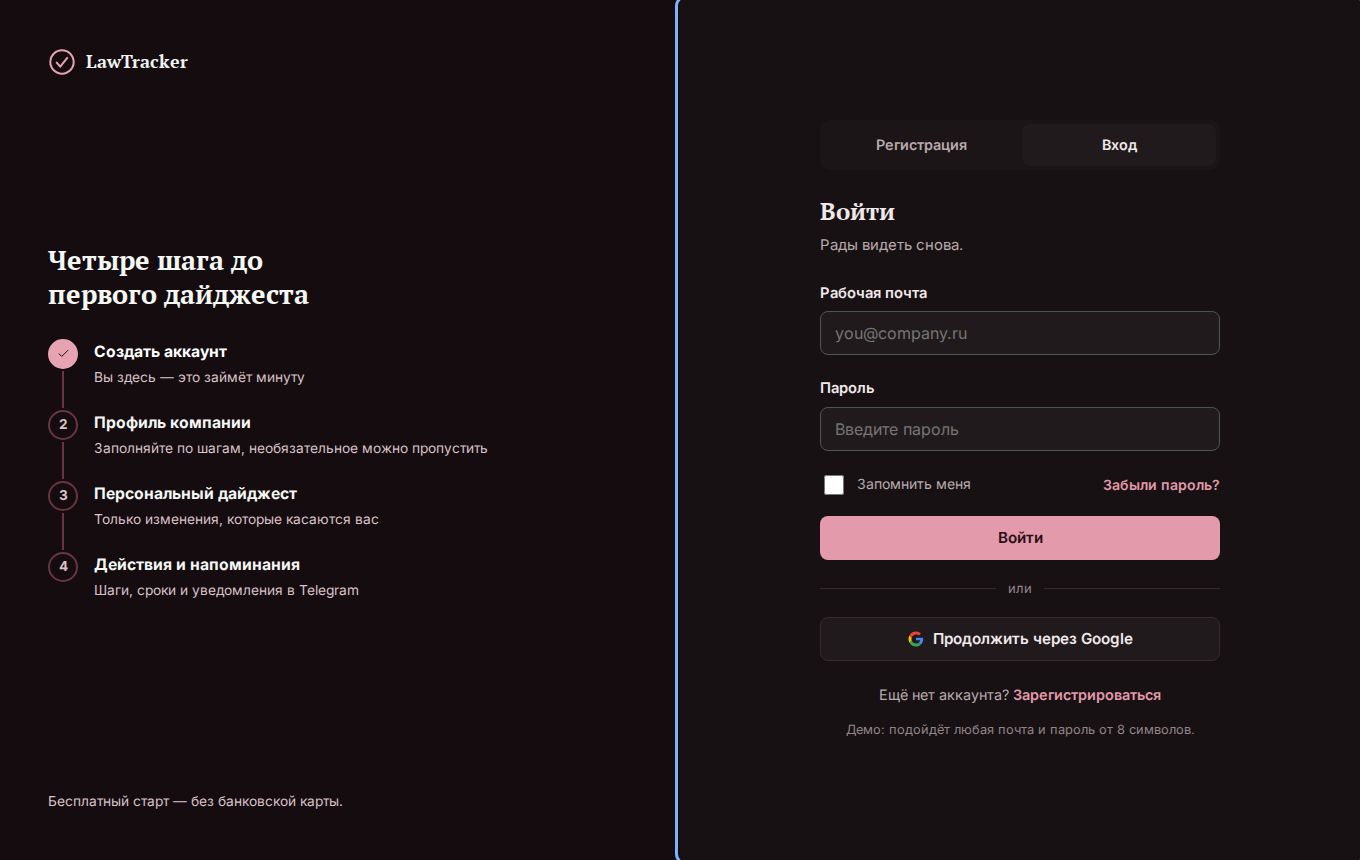
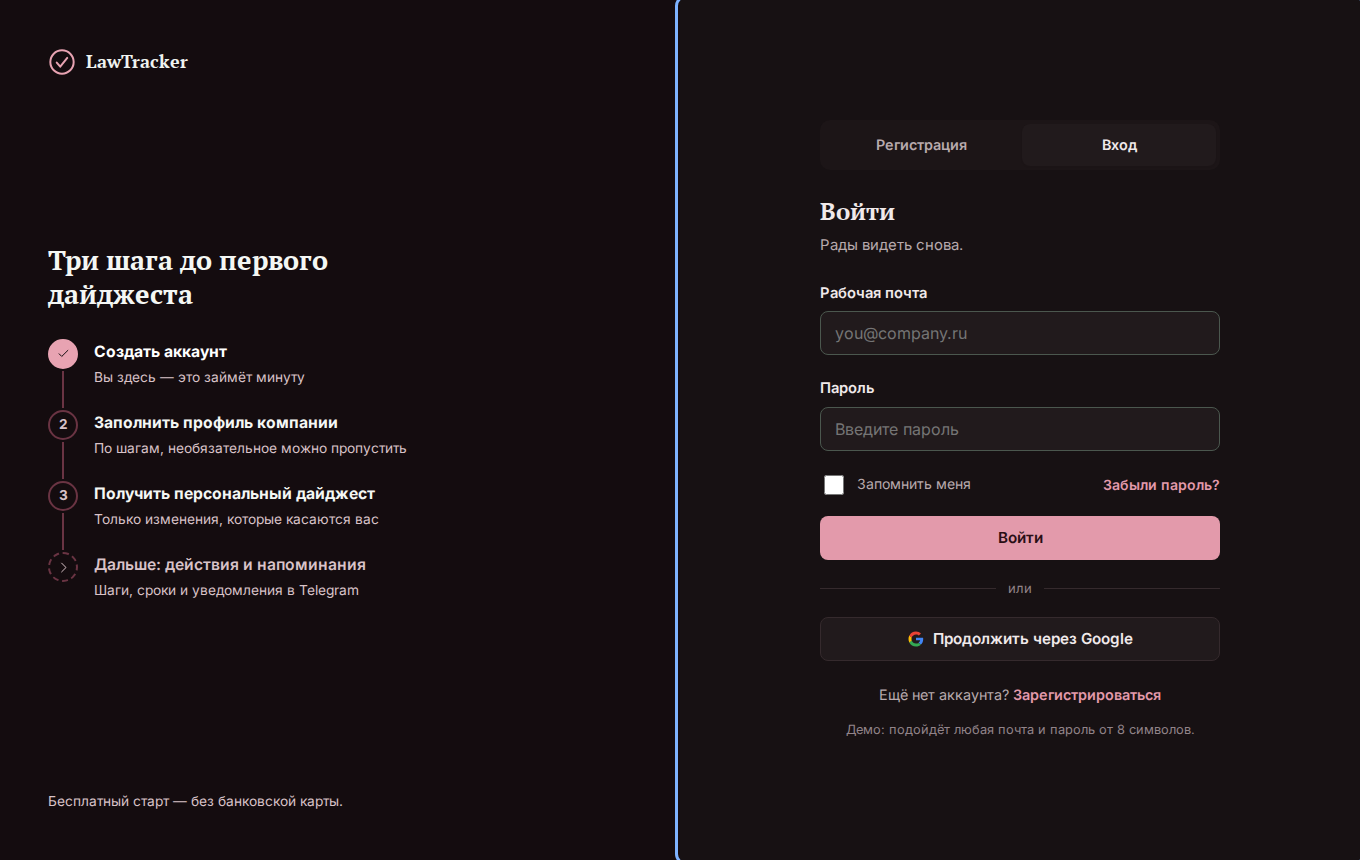
Fix steps panel logic: three steps to first digest, fourth item is a continuation
Claude-Session: https://claude.ai/code/session_01ADSquzsspwAL5eKo1c74of

Changed region(s): [[0.0618, 0.4837, 0.3706, 0.6047], [0.0309, 0.2721, 0.2471, 0.3628], [0.0309, 0.6349, 0.2779, 0.6651]]

diff --git a/auth-panels.html b/auth-panels.html
@@ -4,4 +4,4 @@ h1{font:700 2.1rem/1.25 "PT Serif",Georgia,serif;margin:0 0 10px}h2{font:700 1.5
 section{padding:40px 0;border-top:1px solid #ddd}.g{display:grid;grid-template-columns:1fr 240px;gap:20px;margin-top:18px;align-items:start}@media(max-width:900px){.g{grid-template-columns:1fr}}
 figure{margin:0;background:#fff;border:1px solid #ddd;border-radius:12px;overflow:hidden}figure img{width:100%;display:block}figcaption{padding:8px 12px;font-size:.84rem;color:#555}
 .t{display:grid;grid-template-columns:repeat(3,1fr);gap:8px 26px;max-width:1040px}@media(max-width:800px){.t{grid-template-columns:1fr}}.t p{margin:4px 0;font-size:.95rem}
-.badge{display:inline-block;background:#22574A;color:#fff;border-radius:999px;padding:3px 12px;font-size:.78rem;font-weight:600;margin-bottom:8px}.tip{background:#fff;border:1px solid #ddd;border-radius:14px;padding:20px 24px}.tip li{margin:6px 0}</style></head><body><div class="w"><header><h1>LawTracker: левая часть регистрации</h1><p class="lead">Шесть вариантов тёмной панели рядом с формой. Цвета «Лес», шрифт «Классика»; панель автоматически подхватывает выбранную гамму и тёмную тему. На телефоне панель сжимается до шапки с одной фразой.</p></header><section id="current"><h2>1. Как сейчас</h2><div class="t"><p><b>Идея:</b> Слоган, три пункта пользы и пример уведомления.</p><p><b>Плюсы:</b> Универсальный, знакомый по прототипу. Пример показывает продукт.</p><p><b>Минусы:</b> Много текста; пример мелкий, слоган повторяет главную.</p></div><div class="g"><figure><img src="mockups/auth/current-desktop.png" loading="lazy" alt=""><figcaption>Десктоп</figcaption></figure><figure><img src="mockups/auth/current-mobile.png" loading="lazy" alt=""><figcaption>Мобильная версия</figcaption></figure></div></section><section id="questions"><h2>2. Три вопроса</h2><div class="t"><p><b>Идея:</b> Продолжает идею главной страницы: что изменилось, касается ли нас, что сделать.</p><p><b>Плюсы:</b> Единый посыл с главной, коротко и понятно с первого взгляда.</p><p><b>Минусы:</b> Нет визуального образа продукта.</p></div><div class="g"><figure><img src="mockups/auth/questions-desktop.png" loading="lazy" alt=""><figcaption>Десктоп</figcaption></figure><figure><img src="mockups/auth/questions-mobile.png" loading="lazy" alt=""><figcaption>Мобильная версия</figcaption></figure></div></section><section id="steps"><span class=badge>Рекомендуем</span><br><h2>3. Путь за 4 шага</h2><div class="t"><p><b>Идея:</b> Вертикальный степпер: регистрация → профиль → дайджест → действия. Текущий шаг отмечен.</p><p><b>Плюсы:</b> Снимает страх длинной анкеты (принцип «постепенного вовлечения» из ТЗ), задаёт ожидания.</p><p><b>Минусы:</b> Меньше «продукта» и больше процесса.</p></div><div class="g"><figure><img src="mockups/auth/steps-desktop.png" loading="lazy" alt=""><figcaption>Десктоп</figcaption></figure><figure><img src="mockups/auth/steps-mobile.png" loading="lazy" alt=""><figcaption>Мобильная версия</figcaption></figure></div></section><section id="sample"><h2>4. Пример дайджеста</h2><div class="t"><p><b>Идея:</b> Крупная светлая карточка изменения с сроком, причиной показа и ответственным.</p><p><b>Плюсы:</b> Самое наглядное доказательство ценности продукта прямо в момент регистрации.</p><p><b>Минусы:</b> Карточка вымышленная; нужно держать метку «Пример».</p></div><div class="g"><figure><img src="mockups/auth/sample-desktop.png" loading="lazy" alt=""><figcaption>Десктоп</figcaption></figure><figure><img src="mockups/auth/sample-mobile.png" loading="lazy" alt=""><figcaption>Мобильная версия</figcaption></figure></div></section><section id="telegram"><h2>5. Telegram и кабинет</h2><div class="t"><p><b>Идея:</b> Телефон с сообщениями бота: показывает второй канал доставки.</p><p><b>Плюсы:</b> Подчёркивает удобство и лёгкость; выделяется среди конкурентов.</p><p><b>Минусы:</b> Акцент на канале, а не на анализе; кабинет остаётся основным.</p></div><div class="g"><figure><img src="mockups/auth/telegram-desktop.png" loading="lazy" alt=""><figcaption>Десктоп</figcaption></figure><figure><img src="mockups/auth/telegram-mobile.png" loading="lazy" alt=""><figcaption>Мобильная версия</figcaption></figure></div></section><section id="trust"><h2>6. Доверие</h2><div class="t"><p><b>Идея:</b> Цитата из презентации и три принципа: источник, уровень уверенности, контроль данных.</p><p><b>Плюсы:</b> Работает на юристов и комплаенс: снижает тревогу перед вводом данных о компании.</p><p><b>Минусы:</b> Самый «текстовый» и спокойный вариант, меньше эмоции.</p></div><div class="g"><figure><img src="mockups/auth/trust-desktop.png" loading="lazy" alt=""><figcaption>Десктоп</figcaption></figure><figure><img src="mockups/auth/trust-mobile.png" loading="lazy" alt=""><figcaption>Мобильная версия</figcaption></figure></div></section><section><h2>Как выбрать и как включить</h2><div class="tip"><ul><li><b>Рекомендуем №3</b> — «Путь за 4 шага»: лучше всего снимает страх длинной регистрации и хорошо сочетается с постепенным заполнением профиля.</li><li>Для единого посыла с главной — №2. Для наглядности продукта — №4.</li><li>Посмотреть на работающем сайте: добавьте к адресу <code>?panel=steps</code>, например <code>index.html#/register?panel=trust</code>. Значения: current, questions, steps, sample, telegram, trust.</li><li>Выбрав вариант, оставим только его.</li></ul></div></section></div></body></html>
+.badge{display:inline-block;background:#22574A;color:#fff;border-radius:999px;padding:3px 12px;font-size:.78rem;font-weight:600;margin-bottom:8px}.tip{background:#fff;border:1px solid #ddd;border-radius:14px;padding:20px 24px}.tip li{margin:6px 0}</style></head><body><div class="w"><header><h1>LawTracker: левая часть регистрации</h1><p class="lead">Шесть вариантов тёмной панели рядом с формой. Цвета «Лес», шрифт «Классика»; панель автоматически подхватывает выбранную гамму и тёмную тему. На телефоне панель сжимается до шапки с одной фразой.</p></header><section id="current"><h2>1. Как сейчас</h2><div class="t"><p><b>Идея:</b> Слоган, три пункта пользы и пример уведомления.</p><p><b>Плюсы:</b> Универсальный, знакомый по прототипу. Пример показывает продукт.</p><p><b>Минусы:</b> Много текста; пример мелкий, слоган повторяет главную.</p></div><div class="g"><figure><img src="mockups/auth/current-desktop.png" loading="lazy" alt=""><figcaption>Десктоп</figcaption></figure><figure><img src="mockups/auth/current-mobile.png" loading="lazy" alt=""><figcaption>Мобильная версия</figcaption></figure></div></section><section id="questions"><h2>2. Три вопроса</h2><div class="t"><p><b>Идея:</b> Продолжает идею главной страницы: что изменилось, касается ли нас, что сделать.</p><p><b>Плюсы:</b> Единый посыл с главной, коротко и понятно с первого взгляда.</p><p><b>Минусы:</b> Нет визуального образа продукта.</p></div><div class="g"><figure><img src="mockups/auth/questions-desktop.png" loading="lazy" alt=""><figcaption>Десктоп</figcaption></figure><figure><img src="mockups/auth/questions-mobile.png" loading="lazy" alt=""><figcaption>Мобильная версия</figcaption></figure></div></section><section id="steps"><span class=badge>Рекомендуем</span><br><h2>3. Три шага до дайджеста</h2><div class="t"><p><b>Идея:</b> Вертикальный степпер из трёх шагов: регистрация → профиль → дайджест; четвёртый пункт «Дальше: действия и напоминания» дан отдельно, без номера. Текущий шаг отмечен.</p><p><b>Плюсы:</b> Снимает страх длинной анкеты (принцип «постепенного вовлечения» из ТЗ), задаёт ожидания.</p><p><b>Минусы:</b> Меньше «продукта» и больше процесса.</p></div><div class="g"><figure><img src="mockups/auth/steps-desktop.png" loading="lazy" alt=""><figcaption>Десктоп</figcaption></figure><figure><img src="mockups/auth/steps-mobile.png" loading="lazy" alt=""><figcaption>Мобильная версия</figcaption></figure></div></section><section id="sample"><h2>4. Пример дайджеста</h2><div class="t"><p><b>Идея:</b> Крупная светлая карточка изменения с сроком, причиной показа и ответственным.</p><p><b>Плюсы:</b> Самое наглядное доказательство ценности продукта прямо в момент регистрации.</p><p><b>Минусы:</b> Карточка вымышленная; нужно держать метку «Пример».</p></div><div class="g"><figure><img src="mockups/auth/sample-desktop.png" loading="lazy" alt=""><figcaption>Десктоп</figcaption></figure><figure><img src="mockups/auth/sample-mobile.png" loading="lazy" alt=""><figcaption>Мобильная версия</figcaption></figure></div></section><section id="telegram"><h2>5. Telegram и кабинет</h2><div class="t"><p><b>Идея:</b> Телефон с сообщениями бота: показывает второй канал доставки.</p><p><b>Плюсы:</b> Подчёркивает удобство и лёгкость; выделяется среди конкурентов.</p><p><b>Минусы:</b> Акцент на канале, а не на анализе; кабинет остаётся основным.</p></div><div class="g"><figure><img src="mockups/auth/telegram-desktop.png" loading="lazy" alt=""><figcaption>Десктоп</figcaption></figure><figure><img src="mockups/auth/telegram-mobile.png" loading="lazy" alt=""><figcaption>Мобильная версия</figcaption></figure></div></section><section id="trust"><h2>6. Доверие</h2><div class="t"><p><b>Идея:</b> Цитата из презентации и три принципа: источник, уровень уверенности, контроль данных.</p><p><b>Плюсы:</b> Работает на юристов и комплаенс: снижает тревогу перед вводом данных о компании.</p><p><b>Минусы:</b> Самый «текстовый» и спокойный вариант, меньше эмоции.</p></div><div class="g"><figure><img src="mockups/auth/trust-desktop.png" loading="lazy" alt=""><figcaption>Десктоп</figcaption></figure><figure><img src="mockups/auth/trust-mobile.png" loading="lazy" alt=""><figcaption>Мобильная версия</figcaption></figure></div></section><section><h2>Как выбрать и как включить</h2><div class="tip"><ul><li><b>Рекомендуем №3</b> — «Три шага до дайджеста»: лучше всего снимает страх длинной регистрации и хорошо сочетается с постепенным заполнением профиля.</li><li>Для единого посыла с главной — №2. Для наглядности продукта — №4.</li><li>Посмотреть на работающем сайте: добавьте к адресу <code>?panel=steps</code>, например <code>index.html#/register?panel=trust</code>. Значения: current, questions, steps, sample, telegram, trust.</li><li>Выбрав вариант, оставим только его.</li></ul></div></section></div></body></html>

diff --git a/index.html b/index.html
@@ -574,6 +574,7 @@ footer .hq-fc .hq-logo{display:flex;padding:0;color:var(--ink)}
 .bp-quote{margin:0;font:1.55rem/1.4 var(--f-head);color:#F4F7F4;max-width:26ch}
 .bp-trust{list-style:none;padding:0;margin:8px 0 0;display:grid;gap:16px}.bp-trust li{display:flex;gap:14px;align-items:flex-start}.bp-trust .ico{color:var(--panel-accent);width:24px;height:24px;margin-top:2px}
 @media(max-width:900px){.brand-panel .bp-extra,.brand-panel .bp-steps,.brand-panel .bp-q,.brand-panel .bp-card,.brand-panel .bp-phone,.brand-panel .bp-trust,.brand-panel .bp-quote,.brand-panel .bp-sub{display:none}.brand-panel .bp-main{gap:0}.brand-panel[class*="bp-"] {gap:12px}.brand-panel.bpv-trust .bp-main::before{content:"Законодательство меняется каждый день. Мы показываем, что важно именно вам.";font:1.15rem/1.4 var(--f-head);color:#F4F7F4}}
+.bp-steps .bp-next .bp-dot{border-style:dashed}.bp-steps .bp-next b{color:var(--panel-soft);font-weight:600}
 /* ===== alternative palettes ===== */
 :root[data-palette="navy"]{--bg:#F3F5F9;--bg-raised:#FFFFFF;--sidebar:#E9EDF4;--panel:#13284B;--ink:#131C2B;--ink-soft:#485468;--ink-faint:#647086;--line:#D8DEE8;--accent:#1F4E8C;--accent-ink:#FFFFFF;--accent-soft:#E3EAF5;--blue:#3B6A8F;--blue-soft:#E1ECF4;--panel-2:#1B3663;--panel-line:#2B4A7C;--panel-accent:#8DB4E8;--panel-tag-bg:#2B4A7C;--panel-tag-ink:#BBD3F5;--panel-soft:#B8C4D8;--amber:#8A5A20;--amber-soft:#F2E7D5;--red:#A23B2E;--red-soft:#F5E4E0;--focus:#1B6FD8;}
 @media (prefers-color-scheme:dark){:root[data-palette="navy"]:not([data-theme="light"]){--bg:#0E131C;--bg-raised:#161D29;--sidebar:#121824;--panel:#0B1424;--ink:#E7ECF4;--ink-soft:#A6B1C3;--ink-faint:#8793A7;--line:#263042;--accent:#7FAAE6;--accent-ink:#0B1424;--accent-soft:#1C2A42;--blue:#8DB6D6;--blue-soft:#1C2A36;--panel-2:#1B3663;--panel-line:#2B4A7C;--panel-accent:#8DB4E8;--panel-tag-bg:#2B4A7C;--panel-tag-ink:#BBD3F5;--panel-soft:#B8C4D8;--amber:#D8AE72;--amber-soft:#2E2618;--red:#E39A8D;--red-soft:#33211E;--focus:#7DB2FF;}}
@@ -1147,7 +1148,7 @@ function viewLegal(kind) {
 }
 
 /* =====================  AUTH & ONBOARDING  ===================== */
-const AUTH_PANELS = { current: 'Как сейчас', questions: 'Три вопроса', steps: 'Путь за 4 шага', sample: 'Пример дайджеста', telegram: 'Telegram и кабинет', trust: 'Доверие' };
+const AUTH_PANELS = { current: 'Как сейчас', questions: 'Три вопроса', steps: 'Три шага до дайджеста', sample: 'Пример дайджеста', telegram: 'Telegram и кабинет', trust: 'Доверие' };
 function authVariant() {
   const q = (location.hash.split('?')[1] || ''), v = new URLSearchParams(q).get('panel') || S.authPanel || 'current';
   return AUTH_PANELS[v] ? v : 'current';
@@ -1158,8 +1159,9 @@ function authBrand() {
   if (v === 'questions') return wrap(`<div class="brand-copy"><h2>Закон изменился. Что это значит для вашей компании?</h2></div>
     <div class="bp-q">${[['Что изменилось?', 'Суть простыми словами и дата вступления в силу'], ['Касается ли это нас?', 'Видно, какие данные профиля привели к показу'], ['Что сделать?', 'Шаги, ответственные, сроки и ссылка на источник']].map((x, i) => `<div class="bp-qi"><span class="bp-n">${i + 1}</span><div><b>${x[0]}</b><small>${x[1]}</small></div></div>`).join('')}</div>`,
     '<p class="bp-note">Регистрация займёт пару минут. Профиль компании можно заполнить позже — по шагам.</p>');
-  if (v === 'steps') return wrap(`<div class="brand-copy"><h2>Четыре шага до первого дайджеста</h2></div>
-    <ol class="bp-steps">${[['Создать аккаунт', 'Вы здесь — это займёт минуту', 1], ['Профиль компании', 'Заполняйте по шагам, необязательное можно пропустить', 0], ['Персональный дайджест', 'Только изменения, которые касаются вас', 0], ['Действия и напоминания', 'Шаги, сроки и уведомления в Telegram', 0]].map((x, i) => `<li class="${x[2] ? 'now' : ''}"><span class="bp-dot">${x[2] ? ic('check', 'sm') : i + 1}</span><div><b>${x[0]}</b><small>${x[1]}</small></div></li>`).join('')}</ol>`,
+  if (v === 'steps') return wrap(`<div class="brand-copy"><h2>Три шага до первого дайджеста</h2></div>
+    <ol class="bp-steps">${[['Создать аккаунт', 'Вы здесь — это займёт минуту', 1], ['Заполнить профиль компании', 'По шагам, необязательное можно пропустить', 0], ['Получить персональный дайджест', 'Только изменения, которые касаются вас', 0]].map((x, i) => `<li class="${x[2] ? 'now' : ''}"><span class="bp-dot">${x[2] ? ic('check', 'sm') : i + 1}</span><div><b>${x[0]}</b><small>${x[1]}</small></div></li>`).join('')}
+    <li class="bp-next"><span class="bp-dot">${ic('right', 'sm')}</span><div><b>Дальше: действия и напоминания</b><small>Шаги, сроки и уведомления в Telegram</small></div></li></ol>`,
     '<p class="bp-note">Бесплатный старт — без банковской карты.</p>');
   if (v === 'sample') return wrap(`<div class="brand-copy"><h2>Так выглядит ваш персональный дайджест</h2></div>
     <div class="bp-card"><span class="bp-demo">Пример · без данных реального клиента</span><div class="bp-tags"><span>Высокий уровень влияния</span><span>Персональные данные</span></div><h3>Согласие на обработку данных — только отдельным документом</h3><p>Вступает в силу через 14 дней. Оформить согласие отдельно от оферты — юрист, до 10 октября.</p><div class="bp-why"><b>Почему это показано вам</b>В профиле: «Собираем данные клиентов»</div></div>`,
